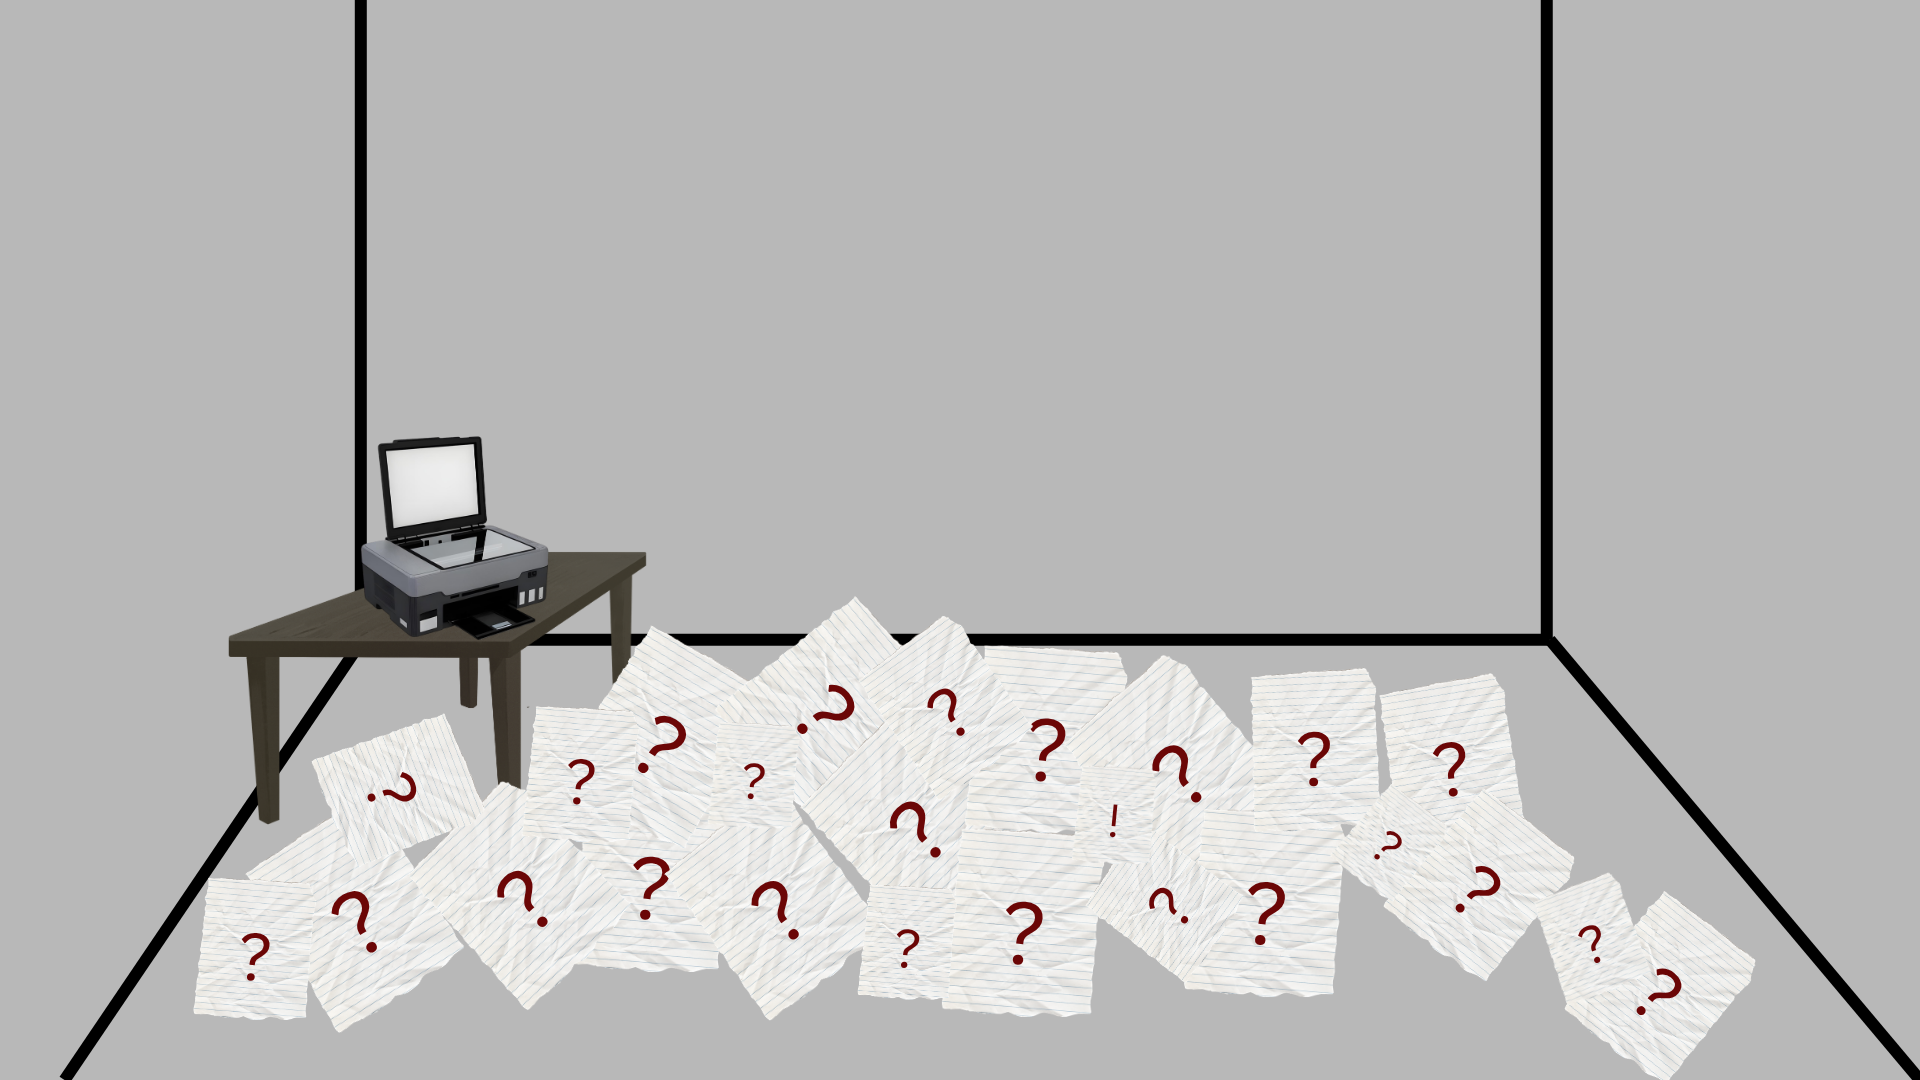
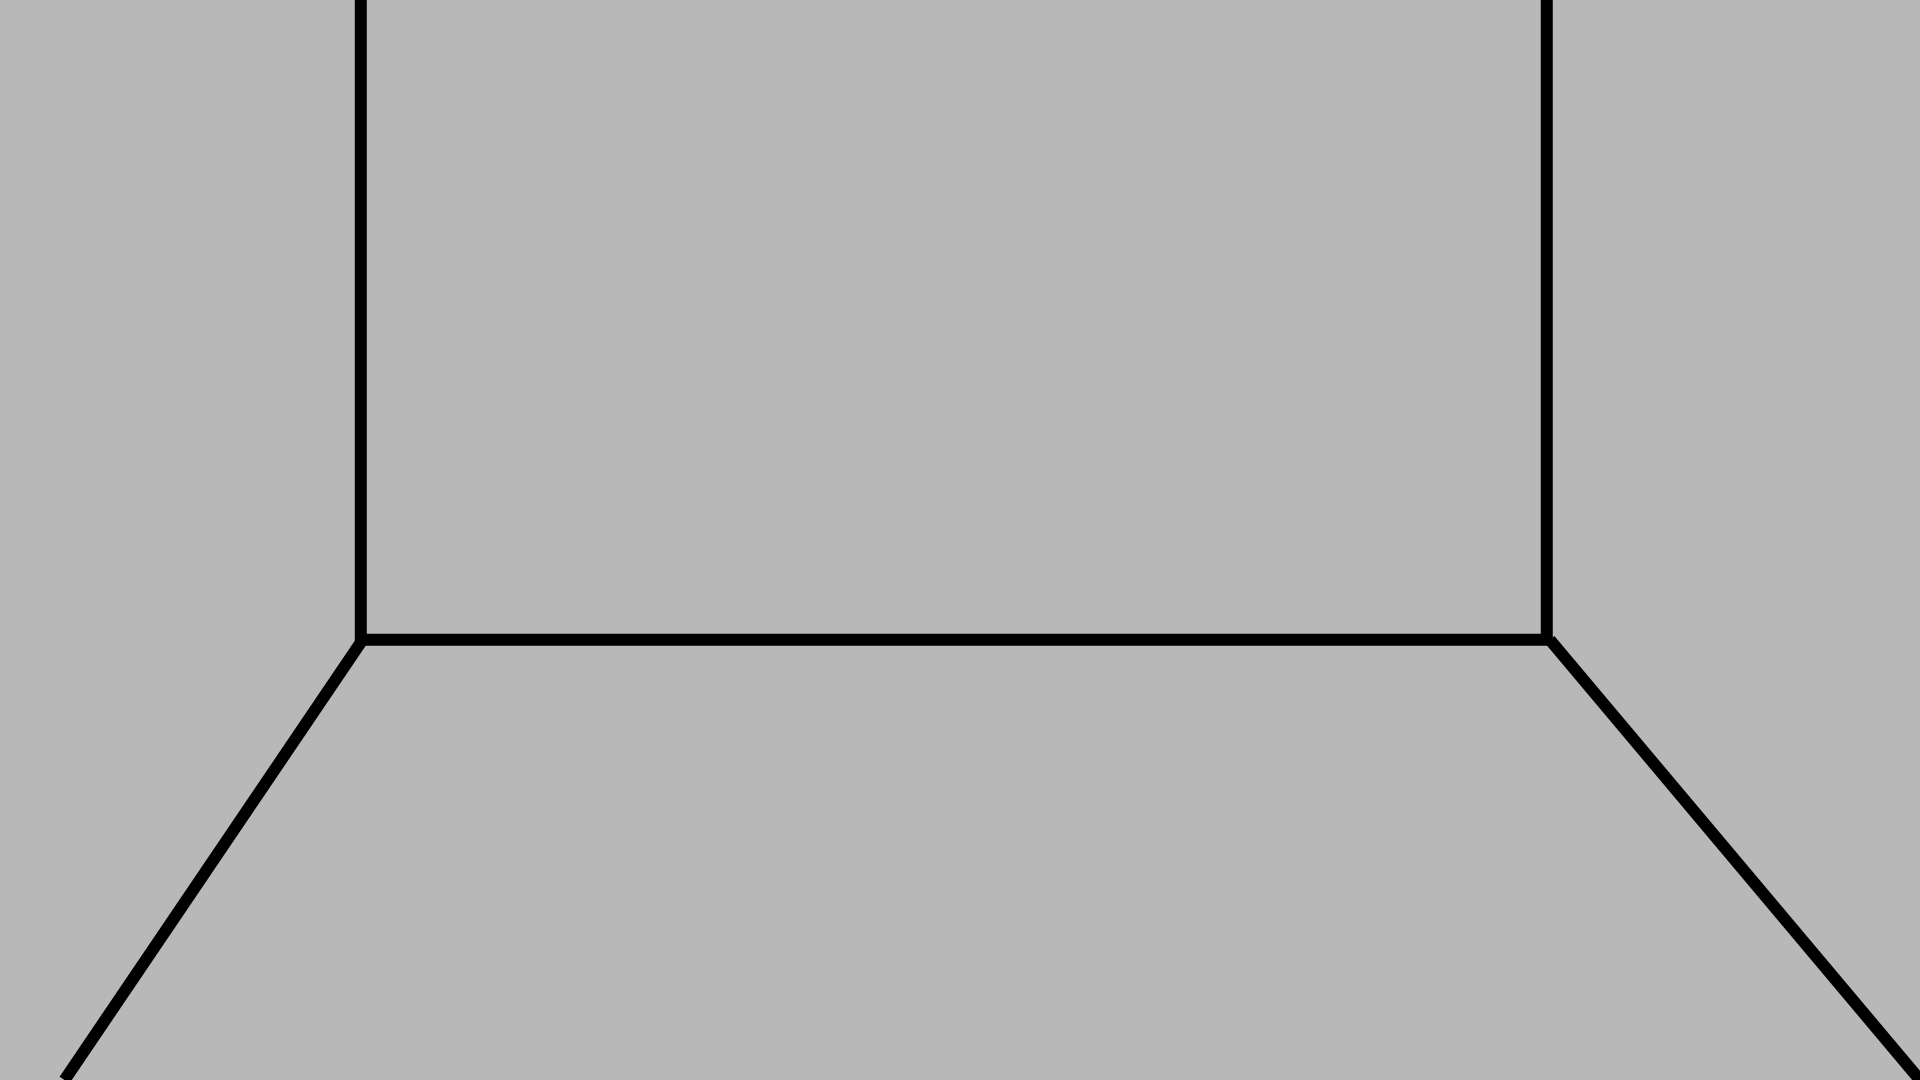
paper room updates
completed most of the paper room, still need to make minor adjustments to sizing

Changed region(s): [[0.0938, 0.3972, 0.9375, 1.0]]

diff --git a/Office Esc Game/index.html b/Office Esc Game/index.html
@@ -50,24 +50,19 @@
     <div id="r-cubicle" class="room active">
   <img class="room-bg" src="img/room1.png" alt="Cubicle room">
 
-  <!-- Desk: centered, sitting on the floor line (~60% down) -->
   <img id="desk-img" src="img/desk.png" alt="Desk"
        style="position:absolute;left:50%;top:52%;transform:translateX(-50%);width:68%;pointer-events:none;z-index:2;">
 
-  <!-- Phone: on the desk surface, left-center area of the tabletop. -->
   <img id="phone-on-desk" src="img/iphone.png" alt="Phone on desk"
        style="position:absolute;left:37%;top:57%;width:11%;z-index:3;pointer-events:none;">
 
-  <!-- Phone hotspot: matches phone image -->
   <div class="hs" id="hs-phone"
        style="left:36%;top:53%;width:9%;height:13%;z-index:4;"
        onclick="pickupPhone()"></div>
 
-  <!-- Lock: on the top drawer. -->
   <img id="lock-img" src="img/lock.png" alt="Lock"
        style="position:absolute;left:67%;top:69%;width:7.5%;z-index:3;pointer-events:none;">
 
-  <!-- Drawer hotspot: covers the top drawer -->
   <div class="hs" id="hs-drawer"
        style="left:65%;top:67%;width:12%;height:12%;z-index:4;"
        onclick="clickDrawer()"></div>
@@ -77,6 +72,13 @@
 <!--PAPER ROOM -->
   <div id="r-paper" class="room">
   <img class="room-bg" src="img/room2.png" alt="Paper room">
+
+  <img src="img/table.png" alt="Table"
+       style="position:absolute;left:5%;top:45%;width:40%;pointer-events:none;z-index:2;">
+
+  <img src="img/printer.png" alt="Printer"
+       style="position:absolute;left:18%;top:40%;width:20%;pointer-events:none;z-index:3;">
+
   <div id="papers-layer"></div>
   <div id="paper-found">KEY CARD</div>
 </div>

diff --git a/Office Esc Game/main.rooms.script.js b/Office Esc Game/main.rooms.script.js
@@ -53,15 +53,22 @@ function buildPapers() {
   if (G.paperDone) return;
 
   PAPERS.forEach((pos, index) => {
-    const div = document.createElement('div');
-    div.className    = 'paper-hs';
-    div.style.left   = pos[0] + '%';
-    div.style.top    = pos[1] + '%';
-    div.style.width  = pos[2] + '%';
-    div.style.height = pos[3] + '%';
+    const wrapper = document.createElement('div');
+    wrapper.className    = 'paper-hs';
+    wrapper.style.left   = pos[0] + '%';
+    wrapper.style.top    = pos[1] + '%';
+    wrapper.style.width  = pos[2] + '%';
+    wrapper.style.height = pos[3] + '%';
+    wrapper.style.transform = `rotate(${pos[4]}deg)`;
 
-    div.addEventListener('click', () => clickPaper(index, div));
-    layer.appendChild(div);
+    const img = document.createElement('img');
+    img.src   = index === ODD_PAPER ? 'img/exclamation.png' : 'img/question.png';
+    img.alt   = index === ODD_PAPER ? '!' : '?';
+    img.style.cssText = 'width:200%;height:200%;object-fit:contain;pointer-events:none;';
+
+    wrapper.appendChild(img);
+    wrapper.addEventListener('click', () => clickPaper(index, wrapper));
+    layer.appendChild(wrapper);
   });
 }
 

diff --git a/Office Esc Game/style.css b/Office Esc Game/style.css
@@ -17,6 +17,8 @@
 html, body {
   width: 100%;
   height: 100%;
+  min-width: 900px;
+  min-height: 560px;
   overflow: hidden;
   background: #000;
   font-family: var(--serif);
@@ -161,7 +163,7 @@ html, body {
 /* ── SIDEBAR ── */
 
 #sidebar {
-  width: 230px;
+  width: 200px;
   background: #0d0d0d;
   display: flex;
   flex-direction: column;
@@ -228,9 +230,8 @@ html, body {
 }
 
 .inv-slot {
-  width: 100px;
-  height: 140px;
-  margin-top: 20px;
+  width: 82px;
+  height: 112px;
   border: 2px solid #2a2a2a;
   background: #111;
   border-radius: 5px;
@@ -238,7 +239,7 @@ html, body {
   flex-direction: column;
   align-items: center;
   justify-content: center;
-  gap: 6px;
+  gap: 3px;
   font-family: var(--mono);
   font-size: .55rem;
   color: #3a3a3a;
@@ -275,14 +276,13 @@ html, body {
   width: 200px;
   background: #fff;
   border-radius: 24px;
-  margin-top: 15px;
   border: 3px solid #1a1a1a;
   display: flex;
   flex-direction: column;
   padding: 8px 8px 10px;
   flex: 1;
   min-height: 0;
-  max-height: 450px;
+  max-height: 290px;
 }
 
 #ph-notch {

diff --git a/Office Esc Game/gamereq.script.js b/Office Esc Game/gamereq.script.js
@@ -32,13 +32,14 @@ const QUIZ = [
 ];
 
 const PAPERS = [
-  [5,68,6,12],[10,76,6,12],[16,70,6,12],[8,83,6,11],[22,72,5,11],
-  [27,63,5,10],[32,74,5,10],[30,83,5,10],[37,68,5,11],[42,58,5,10],
-  [43,72,5,10],[48,64,5,10],[51,76,5,10],[53,60,5,10],[56,72,5,10],
-  [58,82,5,10],
-  [55,60,6,11],  // the ! paper (has keycard)
-  [63,74,5,10],[67,66,5,10],[70,76,5,10],[74,60,5,10],[76,72,5,10],
-  [80,66,5,10],[83,76,5,10],[87,56,5,10],[89,66,5,10],[91,74,5,10],[93,82,5,10]
+  // [left, top, width, height, rotation]
+  [28,58,7,13,-12],[32,65,7,13,5],[35,55,7,13,18],[30,72,7,13,-7],[38,62,7,13,22],
+  [42,58,7,13,-15],[40,70,7,13,8],[45,64,7,13,-20],[48,57,7,13,14],[44,74,7,13,-5],
+  [50,62,7,13,25],[52,72,7,13,-18],[55,58,7,13,10],[57,68,7,13,-8],[60,62,7,13,20],
+  [62,74,7,13,-14],
+  [36,63,8,14,3],  // the ! paper (has keycard)
+  [48,70,7,13,16],[53,64,7,13,-22],[58,74,7,13,7],[63,60,7,13,-10],[65,70,7,13,19],
+  [43,60,7,13,-3],[67,64,7,13,-16],[38,70,7,13,12],[56,60,7,13,-25],[61,67,7,13,6],[46,67,7,13,-9]
 ];
 
 const CHAIRS = [
